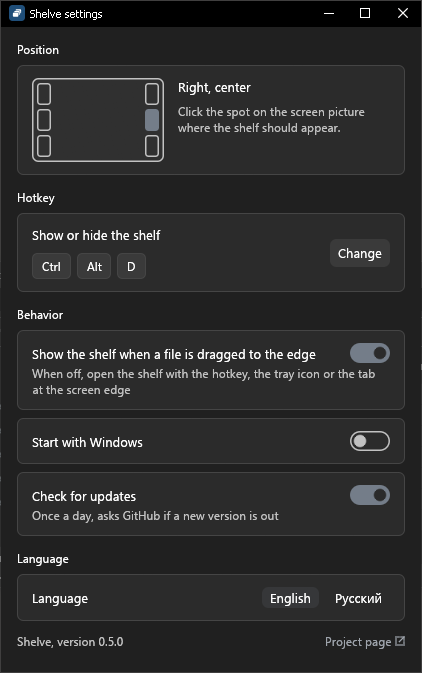
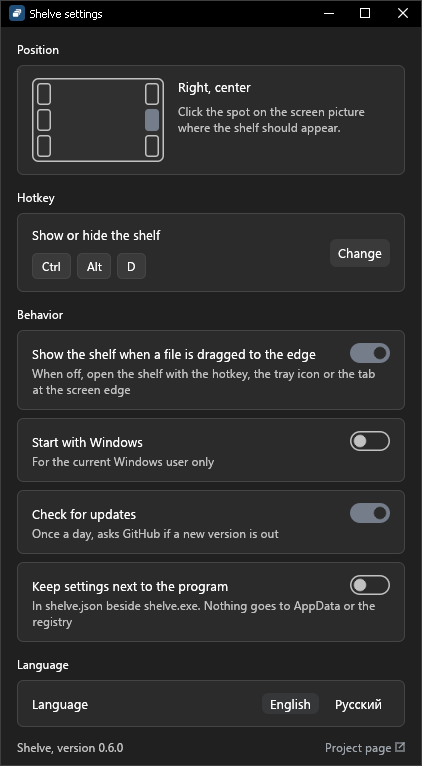
docs: new settings screenshot for 0.6.0 with the portable switch; portable on the project page

diff --git a/docs/index.html b/docs/index.html
@@ -153,12 +153,14 @@ html:not([lang="en"]) [data-lang="en"], html:not([lang="ru"]) [data-lang="ru"] {
         <li>Pick several rows as in Explorer and drag them off together.</li>
         <li><kbd>Ctrl+Alt+D</kbd> or the tray icon opens the shelf without dragging.</li>
         <li>Light or dark, following Windows. English or Russian, chosen in the settings.</li>
+        <li>Portable: keep the settings next to the program, and Shelve runs from a flash drive without leaving files or registry entries behind.</li>
       </ul>
       <ul data-lang="ru">
         <li>Полка хранит только ссылки. Ничего не копируется и не переносится, пока вы сами не перетащите файл с полки. Держите Ctrl, когда отпускаете, и будет копия.</li>
         <li>Выделите несколько строк, как в Проводнике, и перетащите их разом.</li>
         <li><kbd>Ctrl+Alt+D</kbd> или значок у часов открывает полку без перетаскивания.</li>
         <li>Светлая или тёмная вслед за Windows. Русский язык включается в настройках.</li>
+        <li>Портативная: храните настройки рядом с программой, и Shelve запустится с флешки, не оставив ни файлов, ни записей в реестре.</li>
       </ul>
     </div>
     <img src="shelf.png" width="308" height="388" alt="The shelf with seven files: two picked rows have a stripe at the left, and the row under the mouse shows its folder path">
